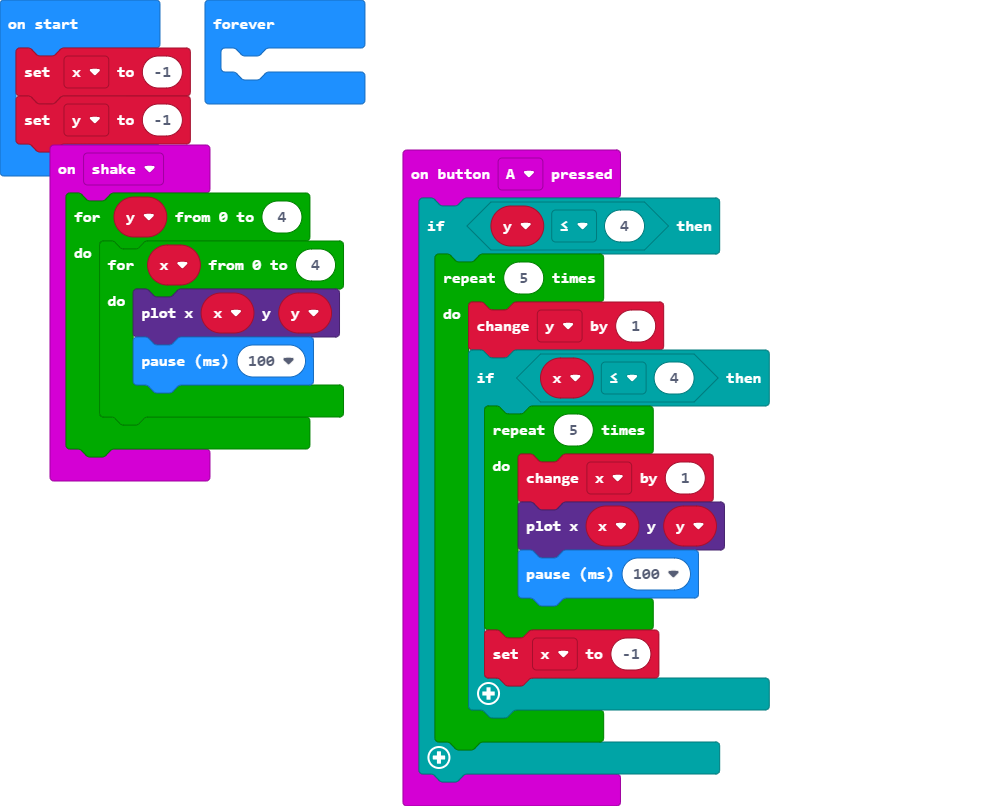
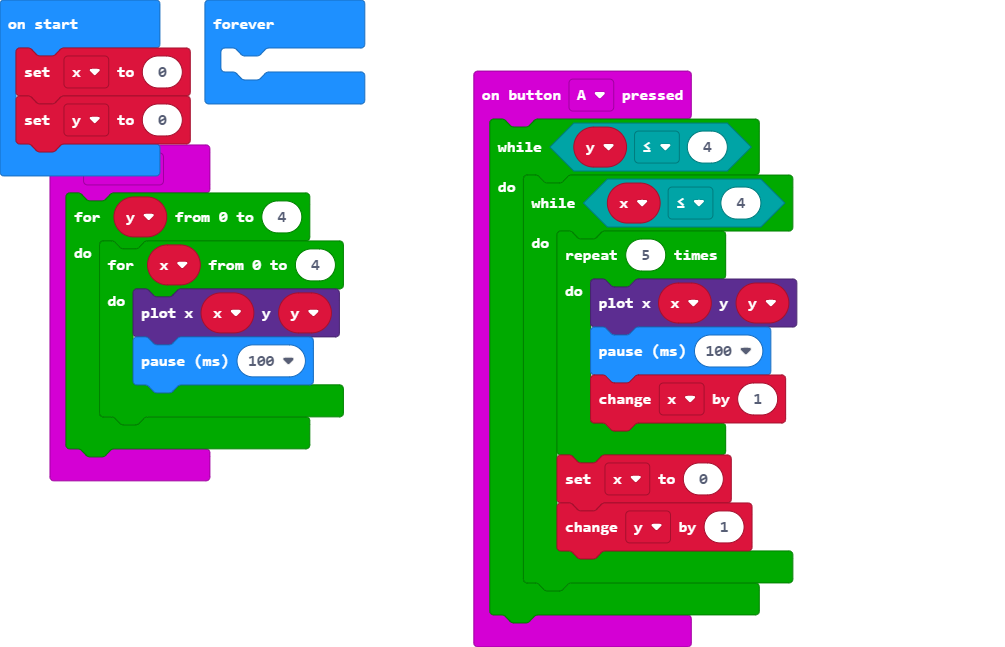
Update main.blocks, main.ts

diff --git a/main.ts b/main.ts
@@ -1,15 +1,13 @@
 input.onButtonPressed(Button.A, function () {
-    if (y <= 4) {
-        for (let index = 0; index < 5; index++) {
-            y += 1
-            if (x <= 4) {
-                for (let index = 0; index < 5; index++) {
-                    x += 1
-                    led.plot(x, y)
-                    basic.pause(100)
-                }
-                x = -1
+    while (y <= 4) {
+        while (x <= 4) {
+            for (let index = 0; index < 5; index++) {
+                led.plot(x, y)
+                basic.pause(100)
+                x += 1
             }
+            x = 0
+            y += 1
         }
     }
 })
@@ -23,8 +21,8 @@ input.onGesture(Gesture.Shake, function () {
 })
 let y = 0
 let x = 0
-x = -1
-y = -1
+x = 0
+y = 0
 basic.forever(function () {
 	
 })
